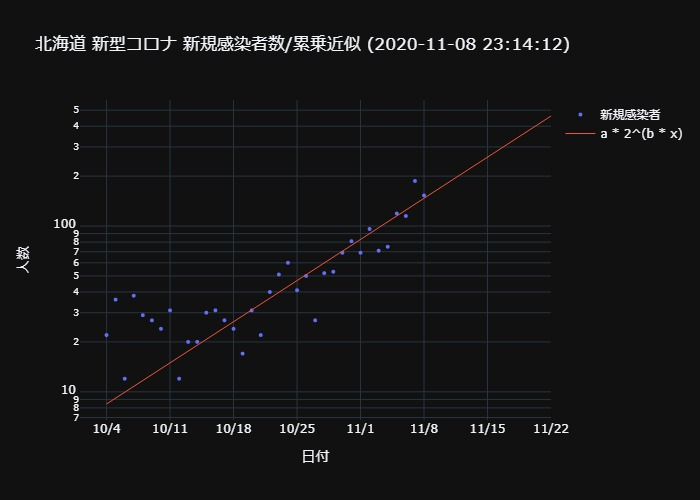
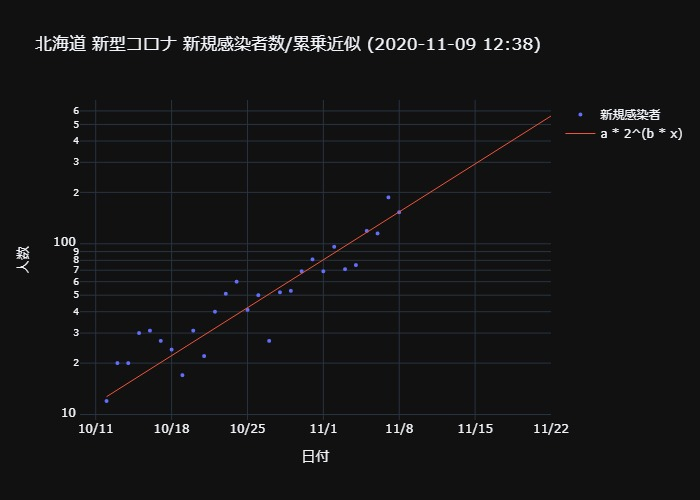
Updated with latest data.

diff --git a/docs/_includes/hokkaido-fit.html b/docs/_includes/hokkaido-fit.html
@@ -1,1 +1,1 @@
-<div>                            <div id="60648bae-fcf0-461d-8b74-386b2afb54e8" class="plotly-graph-div" style="height:100%; width:100%;"></div>            <script type="text/javascript">                                    window.PLOTLYENV=window.PLOTLYENV || {};                                    if (document.getElementById("60648bae-fcf0-461d-8b74-386b2afb54e8")) {                    Plotly.newPlot(                        "60648bae-fcf0-461d-8b74-386b2afb54e8",                        [{"marker": {"size": 4}, "mode": "markers", "name": "\u65b0\u898f\u611f\u67d3\u8005", "type": "scatter", "x": ["2020-10-04T00:00:00", "2020-10-05T00:00:00", "2020-10-06T00:00:00", "2020-10-07T00:00:00", "2020-10-08T00:00:00", "2020-10-09T00:00:00", "2020-10-10T00:00:00", "2020-10-11T00:00:00", "2020-10-12T00:00:00", "2020-10-13T00:00:00", "2020-10-14T00:00:00", "2020-10-15T00:00:00", "2020-10-16T00:00:00", "2020-10-17T00:00:00", "2020-10-18T00:00:00", "2020-10-19T00:00:00", "2020-10-20T00:00:00", "2020-10-21T00:00:00", "2020-10-22T00:00:00", "2020-10-23T00:00:00", "2020-10-24T00:00:00", "2020-10-25T00:00:00", "2020-10-26T00:00:00", "2020-10-27T00:00:00", "2020-10-28T00:00:00", "2020-10-29T00:00:00", "2020-10-30T00:00:00", "2020-10-31T00:00:00", "2020-11-01T00:00:00", "2020-11-02T00:00:00", "2020-11-03T00:00:00", "2020-11-04T00:00:00", "2020-11-05T00:00:00", "2020-11-06T00:00:00", "2020-11-07T00:00:00", "2020-11-08T00:00:00"], "y": [22, 36, 12, 38, 29, 27, 24, 31, 12, 20, 20, 30, 31, 27, 24, 17, 31, 22, 40, 51, 60, 41, 50, 27, 52, 53, 69, 81, 69, 96, 71, 75, 119, 115, 187, 153]}, {"line": {"width": 1}, "name": "a * 2^(b * x)", "type": "scatter", "x": ["2020-10-04T00:00:00", "2020-10-05T00:00:00", "2020-10-06T00:00:00", "2020-10-07T00:00:00", "2020-10-08T00:00:00", "2020-10-09T00:00:00", "2020-10-10T00:00:00", "2020-10-11T00:00:00", "2020-10-12T00:00:00", "2020-10-13T00:00:00", "2020-10-14T00:00:00", "2020-10-15T00:00:00", "2020-10-16T00:00:00", "2020-10-17T00:00:00", "2020-10-18T00:00:00", "2020-10-19T00:00:00", "2020-10-20T00:00:00", "2020-10-21T00:00:00", "2020-10-22T00:00:00", "2020-10-23T00:00:00", "2020-10-24T00:00:00", "2020-10-25T00:00:00", "2020-10-26T00:00:00", "2020-10-27T00:00:00", "2020-10-28T00:00:00", "2020-10-29T00:00:00", "2020-10-30T00:00:00", "2020-10-31T00:00:00", "2020-11-01T00:00:00", "2020-11-02T00:00:00", "2020-11-03T00:00:00", "2020-11-04T00:00:00", "2020-11-05T00:00:00", "2020-11-06T00:00:00", "2020-11-07T00:00:00", "2020-11-08T00:00:00", "2020-11-09T00:00:00", "2020-11-10T00:00:00", "2020-11-11T00:00:00", "2020-11-12T00:00:00", "2020-11-13T00:00:00", "2020-11-14T00:00:00", "2020-11-15T00:00:00", "2020-11-16T00:00:00", "2020-11-17T00:00:00", "2020-11-18T00:00:00", "2020-11-19T00:00:00", "2020-11-20T00:00:00", "2020-11-21T00:00:00", "2020-11-22T00:00:00"], "y": [8.443843664082484, 9.162053012678978, 9.941351207650682, 10.786934292684222, 11.704440272177477, 12.699986703161832, 13.780211484686507, 14.952317116632035, 16.224118723052637, 17.60409616024764, 19.1014505569974, 20.726165663951004, 22.489074421218575, 24.40193118801384, 26.47749011594483, 28.729590188513995, 31.173247493836566, 33.82475534581413, 36.701792921330714, 39.82354313782015, 43.21082055716423, 46.88621016873317, 50.87421797691697, 55.201434397204395, 59.896711550268115, 64.99135563618093, 70.51933567143621, 76.51750998054607, 83.02587195237153, 90.08781669978747, 97.75043040066127, 106.06480424935266, 115.08637511203631, 124.87529515719788, 135.49683292585004, 147.02180851564108, 159.5270657804878, 173.09598469416645, 187.81903729409578, 203.79439091211782, 221.12856271437562, 239.93712991449186, 260.3455003954635, 282.4897488784643, 306.5175242137901, 332.5890338433941, 360.8781119990065, 391.5733787581529, 424.8794976861826, 461.01854044975516]}],                        {"template": {"data": {"bar": [{"error_x": {"color": "#f2f5fa"}, "error_y": {"color": "#f2f5fa"}, "marker": {"line": {"color": "rgb(17,17,17)", "width": 0.5}}, "type": "bar"}], "barpolar": [{"marker": {"line": {"color": "rgb(17,17,17)", "width": 0.5}}, "type": "barpolar"}], "carpet": [{"aaxis": {"endlinecolor": "#A2B1C6", "gridcolor": "#506784", "linecolor": "#506784", "minorgridcolor": "#506784", "startlinecolor": "#A2B1C6"}, "baxis": {"endlinecolor": "#A2B1C6", "gridcolor": "#506784", "linecolor": "#506784", "minorgridcolor": "#506784", "startlinecolor": "#A2B1C6"}, "type": "carpet"}], "choropleth": [{"colorbar": {"outlinewidth": 0, "ticks": ""}, "type": "choropleth"}], "contour": [{"colorbar": {"outlinewidth": 0, "ticks": ""}, "colorscale": [[0.0, "#0d0887"], [0.1111111111111111, "#46039f"], [0.2222222222222222, "#7201a8"], [0.3333333333333333, "#9c179e"], [0.4444444444444444, "#bd3786"], [0.5555555555555556, "#d8576b"], [0.6666666666666666, "#ed7953"], [0.7777777777777778, "#fb9f3a"], [0.8888888888888888, "#fdca26"], [1.0, "#f0f921"]], "type": "contour"}], "contourcarpet": [{"colorbar": {"outlinewidth": 0, "ticks": ""}, "type": "contourcarpet"}], "heatmap": [{"colorbar": {"outlinewidth": 0, "ticks": ""}, "colorscale": [[0.0, "#0d0887"], [0.1111111111111111, "#46039f"], [0.2222222222222222, "#7201a8"], [0.3333333333333333, "#9c179e"], [0.4444444444444444, "#bd3786"], [0.5555555555555556, "#d8576b"], [0.6666666666666666, "#ed7953"], [0.7777777777777778, "#fb9f3a"], [0.8888888888888888, "#fdca26"], [1.0, "#f0f921"]], "type": "heatmap"}], "heatmapgl": [{"colorbar": {"outlinewidth": 0, "ticks": ""}, "colorscale": [[0.0, "#0d0887"], [0.1111111111111111, "#46039f"], [0.2222222222222222, "#7201a8"], [0.3333333333333333, "#9c179e"], [0.4444444444444444, "#bd3786"], [0.5555555555555556, "#d8576b"], [0.6666666666666666, "#ed7953"], [0.7777777777777778, "#fb9f3a"], [0.8888888888888888, "#fdca26"], [1.0, "#f0f921"]], "type": "heatmapgl"}], "histogram": [{"marker": {"colorbar": {"outlinewidth": 0, "ticks": ""}}, "type": "histogram"}], "histogram2d": [{"colorbar": {"outlinewidth": 0, "ticks": ""}, "colorscale": [[0.0, "#0d0887"], [0.1111111111111111, "#46039f"], [0.2222222222222222, "#7201a8"], [0.3333333333333333, "#9c179e"], [0.4444444444444444, "#bd3786"], [0.5555555555555556, "#d8576b"], [0.6666666666666666, "#ed7953"], [0.7777777777777778, "#fb9f3a"], [0.8888888888888888, "#fdca26"], [1.0, "#f0f921"]], "type": "histogram2d"}], "histogram2dcontour": [{"colorbar": {"outlinewidth": 0, "ticks": ""}, "colorscale": [[0.0, "#0d0887"], [0.1111111111111111, "#46039f"], [0.2222222222222222, "#7201a8"], [0.3333333333333333, "#9c179e"], [0.4444444444444444, "#bd3786"], [0.5555555555555556, "#d8576b"], [0.6666666666666666, "#ed7953"], [0.7777777777777778, "#fb9f3a"], [0.8888888888888888, "#fdca26"], [1.0, "#f0f921"]], "type": "histogram2dcontour"}], "mesh3d": [{"colorbar": {"outlinewidth": 0, "ticks": ""}, "type": "mesh3d"}], "parcoords": [{"line": {"colorbar": {"outlinewidth": 0, "ticks": ""}}, "type": "parcoords"}], "pie": [{"automargin": true, "type": "pie"}], "scatter": [{"marker": {"line": {"color": "#283442"}}, "type": "scatter"}], "scatter3d": [{"line": {"colorbar": {"outlinewidth": 0, "ticks": ""}}, "marker": {"colorbar": {"outlinewidth": 0, "ticks": ""}}, "type": "scatter3d"}], "scattercarpet": [{"marker": {"colorbar": {"outlinewidth": 0, "ticks": ""}}, "type": "scattercarpet"}], "scattergeo": [{"marker": {"colorbar": {"outlinewidth": 0, "ticks": ""}}, "type": "scattergeo"}], "scattergl": [{"marker": {"line": {"color": "#283442"}}, "type": "scattergl"}], "scattermapbox": [{"marker": {"colorbar": {"outlinewidth": 0, "ticks": ""}}, "type": "scattermapbox"}], "scatterpolar": [{"marker": {"colorbar": {"outlinewidth": 0, "ticks": ""}}, "type": "scatterpolar"}], "scatterpolargl": [{"marker": {"colorbar": {"outlinewidth": 0, "ticks": ""}}, "type": "scatterpolargl"}], "scatterternary": [{"marker": {"colorbar": {"outlinewidth": 0, "ticks": ""}}, "type": "scatterternary"}], "surface": [{"colorbar": {"outlinewidth": 0, "ticks": ""}, "colorscale": [[0.0, "#0d0887"], [0.1111111111111111, "#46039f"], [0.2222222222222222, "#7201a8"], [0.3333333333333333, "#9c179e"], [0.4444444444444444, "#bd3786"], [0.5555555555555556, "#d8576b"], [0.6666666666666666, "#ed7953"], [0.7777777777777778, "#fb9f3a"], [0.8888888888888888, "#fdca26"], [1.0, "#f0f921"]], "type": "surface"}], "table": [{"cells": {"fill": {"color": "#506784"}, "line": {"color": "rgb(17,17,17)"}}, "header": {"fill": {"color": "#2a3f5f"}, "line": {"color": "rgb(17,17,17)"}}, "type": "table"}]}, "layout": {"annotationdefaults": {"arrowcolor": "#f2f5fa", "arrowhead": 0, "arrowwidth": 1}, "coloraxis": {"colorbar": {"outlinewidth": 0, "ticks": ""}}, "colorscale": {"diverging": [[0, "#8e0152"], [0.1, "#c51b7d"], [0.2, "#de77ae"], [0.3, "#f1b6da"], [0.4, "#fde0ef"], [0.5, "#f7f7f7"], [0.6, "#e6f5d0"], [0.7, "#b8e186"], [0.8, "#7fbc41"], [0.9, "#4d9221"], [1, "#276419"]], "sequential": [[0.0, "#0d0887"], [0.1111111111111111, "#46039f"], [0.2222222222222222, "#7201a8"], [0.3333333333333333, "#9c179e"], [0.4444444444444444, "#bd3786"], [0.5555555555555556, "#d8576b"], [0.6666666666666666, "#ed7953"], [0.7777777777777778, "#fb9f3a"], [0.8888888888888888, "#fdca26"], [1.0, "#f0f921"]], "sequentialminus": [[0.0, "#0d0887"], [0.1111111111111111, "#46039f"], [0.2222222222222222, "#7201a8"], [0.3333333333333333, "#9c179e"], [0.4444444444444444, "#bd3786"], [0.5555555555555556, "#d8576b"], [0.6666666666666666, "#ed7953"], [0.7777777777777778, "#fb9f3a"], [0.8888888888888888, "#fdca26"], [1.0, "#f0f921"]]}, "colorway": ["#636efa", "#EF553B", "#00cc96", "#ab63fa", "#FFA15A", "#19d3f3", "#FF6692", "#B6E880", "#FF97FF", "#FECB52"], "font": {"color": "#f2f5fa"}, "geo": {"bgcolor": "rgb(17,17,17)", "lakecolor": "rgb(17,17,17)", "landcolor": "rgb(17,17,17)", "showlakes": true, "showland": true, "subunitcolor": "#506784"}, "hoverlabel": {"align": "left"}, "hovermode": "closest", "mapbox": {"style": "dark"}, "paper_bgcolor": "rgb(17,17,17)", "plot_bgcolor": "rgb(17,17,17)", "polar": {"angularaxis": {"gridcolor": "#506784", "linecolor": "#506784", "ticks": ""}, "bgcolor": "rgb(17,17,17)", "radialaxis": {"gridcolor": "#506784", "linecolor": "#506784", "ticks": ""}}, "scene": {"xaxis": {"backgroundcolor": "rgb(17,17,17)", "gridcolor": "#506784", "gridwidth": 2, "linecolor": "#506784", "showbackground": true, "ticks": "", "zerolinecolor": "#C8D4E3"}, "yaxis": {"backgroundcolor": "rgb(17,17,17)", "gridcolor": "#506784", "gridwidth": 2, "linecolor": "#506784", "showbackground": true, "ticks": "", "zerolinecolor": "#C8D4E3"}, "zaxis": {"backgroundcolor": "rgb(17,17,17)", "gridcolor": "#506784", "gridwidth": 2, "linecolor": "#506784", "showbackground": true, "ticks": "", "zerolinecolor": "#C8D4E3"}}, "shapedefaults": {"line": {"color": "#f2f5fa"}}, "sliderdefaults": {"bgcolor": "#C8D4E3", "bordercolor": "rgb(17,17,17)", "borderwidth": 1, "tickwidth": 0}, "ternary": {"aaxis": {"gridcolor": "#506784", "linecolor": "#506784", "ticks": ""}, "baxis": {"gridcolor": "#506784", "linecolor": "#506784", "ticks": ""}, "bgcolor": "rgb(17,17,17)", "caxis": {"gridcolor": "#506784", "linecolor": "#506784", "ticks": ""}}, "title": {"x": 0.05}, "updatemenudefaults": {"bgcolor": "#506784", "borderwidth": 0}, "xaxis": {"automargin": true, "gridcolor": "#283442", "linecolor": "#506784", "ticks": "", "title": {"standoff": 15}, "zerolinecolor": "#283442", "zerolinewidth": 2}, "yaxis": {"automargin": true, "gridcolor": "#283442", "linecolor": "#506784", "ticks": "", "title": {"standoff": 15}, "zerolinecolor": "#283442", "zerolinewidth": 2}}}, "title": {"text": "\u5317\u6d77\u9053 \u65b0\u578b\u30b3\u30ed\u30ca \u65b0\u898f\u611f\u67d3\u8005\u6570/\u7d2f\u4e57\u8fd1\u4f3c (2020-11-08 23:14:12)"}, "xaxis": {"dtick": 604800000.0, "tickformat": "%_m/%-d", "title": {"text": "\u65e5\u4ed8"}, "type": "date"}, "yaxis": {"title": {"text": "\u4eba\u6570"}, "type": "log"}},                        {"responsive": true}                    )                };                            </script>        </div>
+<div>                            <div id="0338706b-4fa2-4a0a-abe1-1872cbb60ff7" class="plotly-graph-div" style="height:100%; width:100%;"></div>            <script type="text/javascript">                                    window.PLOTLYENV=window.PLOTLYENV || {};                                    if (document.getElementById("0338706b-4fa2-4a0a-abe1-1872cbb60ff7")) {                    Plotly.newPlot(                        "0338706b-4fa2-4a0a-abe1-1872cbb60ff7",                        [{"marker": {"size": 4}, "mode": "markers", "name": "\u65b0\u898f\u611f\u67d3\u8005", "type": "scatter", "x": ["2020-10-12T00:00:00", "2020-10-13T00:00:00", "2020-10-14T00:00:00", "2020-10-15T00:00:00", "2020-10-16T00:00:00", "2020-10-17T00:00:00", "2020-10-18T00:00:00", "2020-10-19T00:00:00", "2020-10-20T00:00:00", "2020-10-21T00:00:00", "2020-10-22T00:00:00", "2020-10-23T00:00:00", "2020-10-24T00:00:00", "2020-10-25T00:00:00", "2020-10-26T00:00:00", "2020-10-27T00:00:00", "2020-10-28T00:00:00", "2020-10-29T00:00:00", "2020-10-30T00:00:00", "2020-10-31T00:00:00", "2020-11-01T00:00:00", "2020-11-02T00:00:00", "2020-11-03T00:00:00", "2020-11-04T00:00:00", "2020-11-05T00:00:00", "2020-11-06T00:00:00", "2020-11-07T00:00:00", "2020-11-08T00:00:00"], "y": [12, 20, 20, 30, 31, 27, 24, 17, 31, 22, 40, 51, 60, 41, 50, 27, 52, 53, 69, 81, 69, 96, 71, 75, 119, 115, 187, 153]}, {"line": {"width": 1}, "name": "a * 2^(b * x)", "type": "scatter", "x": ["2020-10-12T00:00:00", "2020-10-13T00:00:00", "2020-10-14T00:00:00", "2020-10-15T00:00:00", "2020-10-16T00:00:00", "2020-10-17T00:00:00", "2020-10-18T00:00:00", "2020-10-19T00:00:00", "2020-10-20T00:00:00", "2020-10-21T00:00:00", "2020-10-22T00:00:00", "2020-10-23T00:00:00", "2020-10-24T00:00:00", "2020-10-25T00:00:00", "2020-10-26T00:00:00", "2020-10-27T00:00:00", "2020-10-28T00:00:00", "2020-10-29T00:00:00", "2020-10-30T00:00:00", "2020-10-31T00:00:00", "2020-11-01T00:00:00", "2020-11-02T00:00:00", "2020-11-03T00:00:00", "2020-11-04T00:00:00", "2020-11-05T00:00:00", "2020-11-06T00:00:00", "2020-11-07T00:00:00", "2020-11-08T00:00:00", "2020-11-09T00:00:00", "2020-11-10T00:00:00", "2020-11-11T00:00:00", "2020-11-12T00:00:00", "2020-11-13T00:00:00", "2020-11-14T00:00:00", "2020-11-15T00:00:00", "2020-11-16T00:00:00", "2020-11-17T00:00:00", "2020-11-18T00:00:00", "2020-11-19T00:00:00", "2020-11-20T00:00:00", "2020-11-21T00:00:00", "2020-11-22T00:00:00"], "y": [12.714140402676097, 13.944034792563635, 15.292902244126534, 16.772251541794414, 18.394704765033456, 20.174104982242817, 22.125634362352553, 24.26594371187276, 26.613294542627887, 29.18771488232409, 32.01117015735405, 35.10775060584259, 38.503876819975645, 42.22852517133735, 46.3134750426256, 50.793579975172385, 55.70706504574935, 61.09585300993183, 67.00592199473657, 73.48769779243206, 80.59648410264452, 88.39293439366367, 96.94356940895588, 106.32134473434495, 116.60627326844748, 127.88610790739567, 140.2570902686375, 153.82477184206408, 168.7049145746757, 185.0244785727402, 202.9227053486992, 222.5523058552845, 244.0807634433678, 267.6917628606213, 293.5867574834654, 321.98668815421587, 353.1338682888622, 387.2940513395652, 424.75869825184, 465.84746426278565, 510.9109262581829, 560.3335739587637]}],                        {"template": {"data": {"bar": [{"error_x": {"color": "#f2f5fa"}, "error_y": {"color": "#f2f5fa"}, "marker": {"line": {"color": "rgb(17,17,17)", "width": 0.5}}, "type": "bar"}], "barpolar": [{"marker": {"line": {"color": "rgb(17,17,17)", "width": 0.5}}, "type": "barpolar"}], "carpet": [{"aaxis": {"endlinecolor": "#A2B1C6", "gridcolor": "#506784", "linecolor": "#506784", "minorgridcolor": "#506784", "startlinecolor": "#A2B1C6"}, "baxis": {"endlinecolor": "#A2B1C6", "gridcolor": "#506784", "linecolor": "#506784", "minorgridcolor": "#506784", "startlinecolor": "#A2B1C6"}, "type": "carpet"}], "choropleth": [{"colorbar": {"outlinewidth": 0, "ticks": ""}, "type": "choropleth"}], "contour": [{"colorbar": {"outlinewidth": 0, "ticks": ""}, "colorscale": [[0.0, "#0d0887"], [0.1111111111111111, "#46039f"], [0.2222222222222222, "#7201a8"], [0.3333333333333333, "#9c179e"], [0.4444444444444444, "#bd3786"], [0.5555555555555556, "#d8576b"], [0.6666666666666666, "#ed7953"], [0.7777777777777778, "#fb9f3a"], [0.8888888888888888, "#fdca26"], [1.0, "#f0f921"]], "type": "contour"}], "contourcarpet": [{"colorbar": {"outlinewidth": 0, "ticks": ""}, "type": "contourcarpet"}], "heatmap": [{"colorbar": {"outlinewidth": 0, "ticks": ""}, "colorscale": [[0.0, "#0d0887"], [0.1111111111111111, "#46039f"], [0.2222222222222222, "#7201a8"], [0.3333333333333333, "#9c179e"], [0.4444444444444444, "#bd3786"], [0.5555555555555556, "#d8576b"], [0.6666666666666666, "#ed7953"], [0.7777777777777778, "#fb9f3a"], [0.8888888888888888, "#fdca26"], [1.0, "#f0f921"]], "type": "heatmap"}], "heatmapgl": [{"colorbar": {"outlinewidth": 0, "ticks": ""}, "colorscale": [[0.0, "#0d0887"], [0.1111111111111111, "#46039f"], [0.2222222222222222, "#7201a8"], [0.3333333333333333, "#9c179e"], [0.4444444444444444, "#bd3786"], [0.5555555555555556, "#d8576b"], [0.6666666666666666, "#ed7953"], [0.7777777777777778, "#fb9f3a"], [0.8888888888888888, "#fdca26"], [1.0, "#f0f921"]], "type": "heatmapgl"}], "histogram": [{"marker": {"colorbar": {"outlinewidth": 0, "ticks": ""}}, "type": "histogram"}], "histogram2d": [{"colorbar": {"outlinewidth": 0, "ticks": ""}, "colorscale": [[0.0, "#0d0887"], [0.1111111111111111, "#46039f"], [0.2222222222222222, "#7201a8"], [0.3333333333333333, "#9c179e"], [0.4444444444444444, "#bd3786"], [0.5555555555555556, "#d8576b"], [0.6666666666666666, "#ed7953"], [0.7777777777777778, "#fb9f3a"], [0.8888888888888888, "#fdca26"], [1.0, "#f0f921"]], "type": "histogram2d"}], "histogram2dcontour": [{"colorbar": {"outlinewidth": 0, "ticks": ""}, "colorscale": [[0.0, "#0d0887"], [0.1111111111111111, "#46039f"], [0.2222222222222222, "#7201a8"], [0.3333333333333333, "#9c179e"], [0.4444444444444444, "#bd3786"], [0.5555555555555556, "#d8576b"], [0.6666666666666666, "#ed7953"], [0.7777777777777778, "#fb9f3a"], [0.8888888888888888, "#fdca26"], [1.0, "#f0f921"]], "type": "histogram2dcontour"}], "mesh3d": [{"colorbar": {"outlinewidth": 0, "ticks": ""}, "type": "mesh3d"}], "parcoords": [{"line": {"colorbar": {"outlinewidth": 0, "ticks": ""}}, "type": "parcoords"}], "pie": [{"automargin": true, "type": "pie"}], "scatter": [{"marker": {"line": {"color": "#283442"}}, "type": "scatter"}], "scatter3d": [{"line": {"colorbar": {"outlinewidth": 0, "ticks": ""}}, "marker": {"colorbar": {"outlinewidth": 0, "ticks": ""}}, "type": "scatter3d"}], "scattercarpet": [{"marker": {"colorbar": {"outlinewidth": 0, "ticks": ""}}, "type": "scattercarpet"}], "scattergeo": [{"marker": {"colorbar": {"outlinewidth": 0, "ticks": ""}}, "type": "scattergeo"}], "scattergl": [{"marker": {"line": {"color": "#283442"}}, "type": "scattergl"}], "scattermapbox": [{"marker": {"colorbar": {"outlinewidth": 0, "ticks": ""}}, "type": "scattermapbox"}], "scatterpolar": [{"marker": {"colorbar": {"outlinewidth": 0, "ticks": ""}}, "type": "scatterpolar"}], "scatterpolargl": [{"marker": {"colorbar": {"outlinewidth": 0, "ticks": ""}}, "type": "scatterpolargl"}], "scatterternary": [{"marker": {"colorbar": {"outlinewidth": 0, "ticks": ""}}, "type": "scatterternary"}], "surface": [{"colorbar": {"outlinewidth": 0, "ticks": ""}, "colorscale": [[0.0, "#0d0887"], [0.1111111111111111, "#46039f"], [0.2222222222222222, "#7201a8"], [0.3333333333333333, "#9c179e"], [0.4444444444444444, "#bd3786"], [0.5555555555555556, "#d8576b"], [0.6666666666666666, "#ed7953"], [0.7777777777777778, "#fb9f3a"], [0.8888888888888888, "#fdca26"], [1.0, "#f0f921"]], "type": "surface"}], "table": [{"cells": {"fill": {"color": "#506784"}, "line": {"color": "rgb(17,17,17)"}}, "header": {"fill": {"color": "#2a3f5f"}, "line": {"color": "rgb(17,17,17)"}}, "type": "table"}]}, "layout": {"annotationdefaults": {"arrowcolor": "#f2f5fa", "arrowhead": 0, "arrowwidth": 1}, "coloraxis": {"colorbar": {"outlinewidth": 0, "ticks": ""}}, "colorscale": {"diverging": [[0, "#8e0152"], [0.1, "#c51b7d"], [0.2, "#de77ae"], [0.3, "#f1b6da"], [0.4, "#fde0ef"], [0.5, "#f7f7f7"], [0.6, "#e6f5d0"], [0.7, "#b8e186"], [0.8, "#7fbc41"], [0.9, "#4d9221"], [1, "#276419"]], "sequential": [[0.0, "#0d0887"], [0.1111111111111111, "#46039f"], [0.2222222222222222, "#7201a8"], [0.3333333333333333, "#9c179e"], [0.4444444444444444, "#bd3786"], [0.5555555555555556, "#d8576b"], [0.6666666666666666, "#ed7953"], [0.7777777777777778, "#fb9f3a"], [0.8888888888888888, "#fdca26"], [1.0, "#f0f921"]], "sequentialminus": [[0.0, "#0d0887"], [0.1111111111111111, "#46039f"], [0.2222222222222222, "#7201a8"], [0.3333333333333333, "#9c179e"], [0.4444444444444444, "#bd3786"], [0.5555555555555556, "#d8576b"], [0.6666666666666666, "#ed7953"], [0.7777777777777778, "#fb9f3a"], [0.8888888888888888, "#fdca26"], [1.0, "#f0f921"]]}, "colorway": ["#636efa", "#EF553B", "#00cc96", "#ab63fa", "#FFA15A", "#19d3f3", "#FF6692", "#B6E880", "#FF97FF", "#FECB52"], "font": {"color": "#f2f5fa"}, "geo": {"bgcolor": "rgb(17,17,17)", "lakecolor": "rgb(17,17,17)", "landcolor": "rgb(17,17,17)", "showlakes": true, "showland": true, "subunitcolor": "#506784"}, "hoverlabel": {"align": "left"}, "hovermode": "closest", "mapbox": {"style": "dark"}, "paper_bgcolor": "rgb(17,17,17)", "plot_bgcolor": "rgb(17,17,17)", "polar": {"angularaxis": {"gridcolor": "#506784", "linecolor": "#506784", "ticks": ""}, "bgcolor": "rgb(17,17,17)", "radialaxis": {"gridcolor": "#506784", "linecolor": "#506784", "ticks": ""}}, "scene": {"xaxis": {"backgroundcolor": "rgb(17,17,17)", "gridcolor": "#506784", "gridwidth": 2, "linecolor": "#506784", "showbackground": true, "ticks": "", "zerolinecolor": "#C8D4E3"}, "yaxis": {"backgroundcolor": "rgb(17,17,17)", "gridcolor": "#506784", "gridwidth": 2, "linecolor": "#506784", "showbackground": true, "ticks": "", "zerolinecolor": "#C8D4E3"}, "zaxis": {"backgroundcolor": "rgb(17,17,17)", "gridcolor": "#506784", "gridwidth": 2, "linecolor": "#506784", "showbackground": true, "ticks": "", "zerolinecolor": "#C8D4E3"}}, "shapedefaults": {"line": {"color": "#f2f5fa"}}, "sliderdefaults": {"bgcolor": "#C8D4E3", "bordercolor": "rgb(17,17,17)", "borderwidth": 1, "tickwidth": 0}, "ternary": {"aaxis": {"gridcolor": "#506784", "linecolor": "#506784", "ticks": ""}, "baxis": {"gridcolor": "#506784", "linecolor": "#506784", "ticks": ""}, "bgcolor": "rgb(17,17,17)", "caxis": {"gridcolor": "#506784", "linecolor": "#506784", "ticks": ""}}, "title": {"x": 0.05}, "updatemenudefaults": {"bgcolor": "#506784", "borderwidth": 0}, "xaxis": {"automargin": true, "gridcolor": "#283442", "linecolor": "#506784", "ticks": "", "title": {"standoff": 15}, "zerolinecolor": "#283442", "zerolinewidth": 2}, "yaxis": {"automargin": true, "gridcolor": "#283442", "linecolor": "#506784", "ticks": "", "title": {"standoff": 15}, "zerolinecolor": "#283442", "zerolinewidth": 2}}}, "title": {"text": "\u5317\u6d77\u9053 \u65b0\u578b\u30b3\u30ed\u30ca \u65b0\u898f\u611f\u67d3\u8005\u6570/\u7d2f\u4e57\u8fd1\u4f3c (2020-11-09 12:38)"}, "xaxis": {"dtick": 604800000.0, "tickformat": "%_m/%-d", "title": {"text": "\u65e5\u4ed8"}, "type": "date"}, "yaxis": {"title": {"text": "\u4eba\u6570"}, "type": "log"}},                        {"responsive": true}                    )                };                            </script>        </div>

diff --git a/docs/_includes/hokkaido-doubling-time.html b/docs/_includes/hokkaido-doubling-time.html
@@ -1,1 +1,1 @@
-<div> 倍加時間:8.49 日   (a=8.44, b=0.12) </div>
+<div> 倍加時間:7.51 日   (a=12.71, b=0.13) </div>
